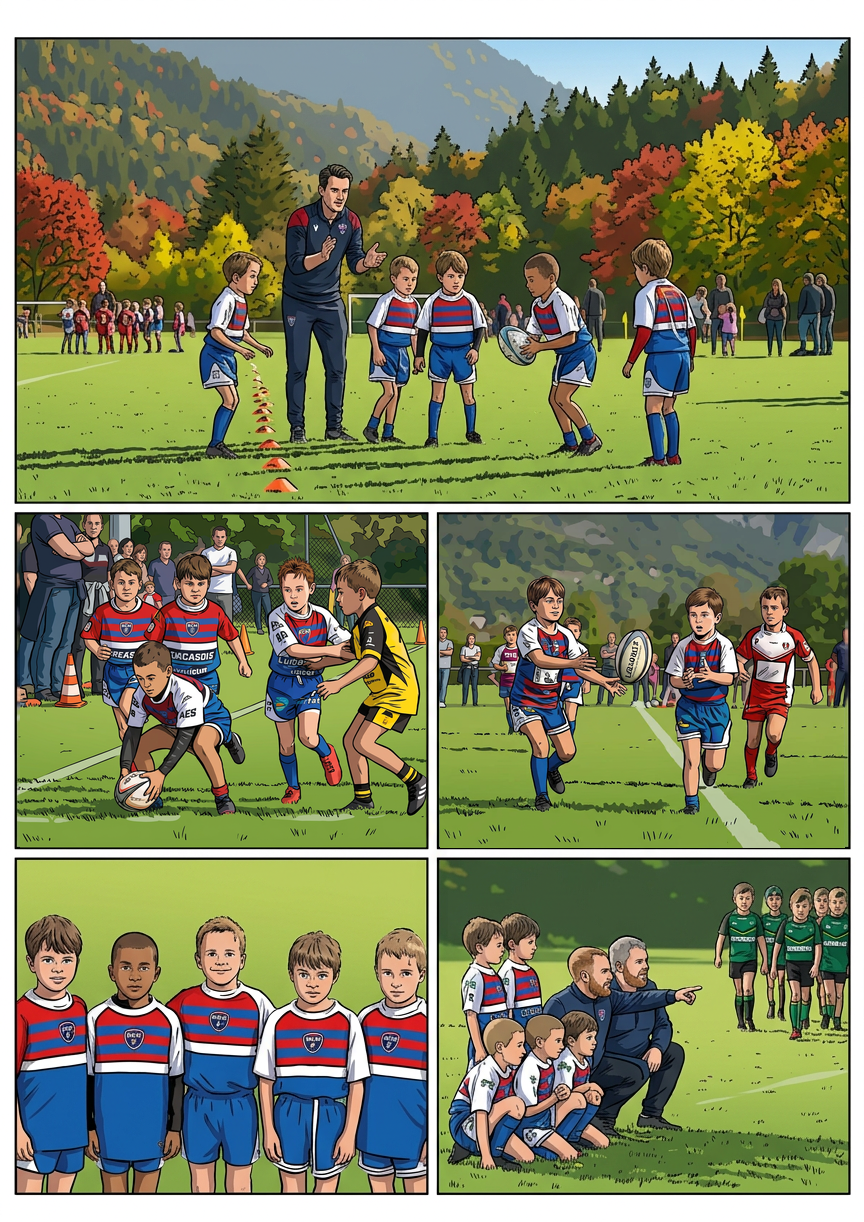
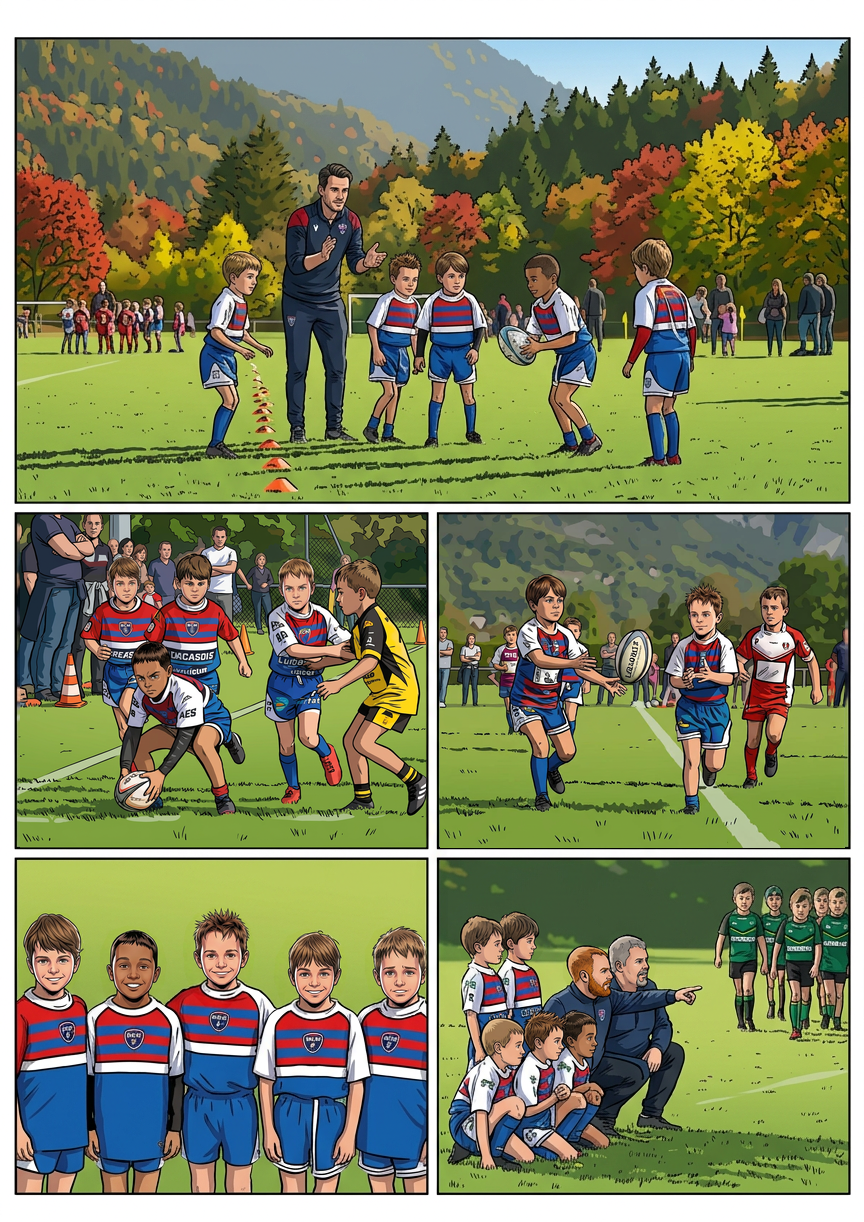
Revoir les cinq vignettes de la planche 6 sur les personnages de couverture

diff --git a/Planches-dessin/validation/REVUE-COUVERTURE.md b/Planches-dessin/validation/REVUE-COUVERTURE.md
@@ -21,12 +21,12 @@ Les huit recadrages exacts sont dans `revue-couverture/<Prénom>-couverture.png`
 |---|---:|
 | Planches vues en ensemble | 30 |
 | Vignettes réellement inventoriées | 153 |
-| Premières reprises intégrées, encore à relire | 28 |
+| Premières reprises intégrées, encore à relire | 33 |
 | Corrections seulement partielles, à poursuivre | 1 |
-| Autres vignettes restant à contrôler individuellement | 124 |
+| Autres vignettes restant à contrôler individuellement | 119 |
 | Validations définitives de style et ressemblance | **0** |
 
-Les 29 vignettes ayant reçu une intervention ne sont pas 29 vignettes définitivement conformes. Le reste de la revue demandée n’est pas terminé. Le manifeste `REVUE-COUVERTURE.json` conserve une entrée et un état explicite pour chacune des 153 vignettes.
+Les 34 vignettes ayant reçu une intervention ne sont pas 34 vignettes définitivement conformes. Le reste de la revue demandée n’est pas terminé. Le manifeste `REVUE-COUVERTURE.json` conserve une entrée et un état explicite pour chacune des 153 vignettes.
 
 ## Première livraison : 26/3 et 26/6
 
@@ -105,6 +105,18 @@ Chaque case a été comparée à son scénario, à sa source réaliste et aux re
 
 Preuves : `revue-couverture/lot-f/05-AVANT-APRES.jpg`, `AIMANTS-05.jpg` et cinq masques. Le contrôle indépendant des composantes colorées/sombres dans les zones de tableaux retrouve 20 disques complets dans chaque résultat (éléments de pièce/cadre touchant les limites de zone exclus). Il ne certifie ni les ressemblances ni le style. Montage relu à l’échelle des portraits et de la page ; tenues, raccords et encrage des corps/décors restent soumis à la relecture globale.
 
+## Septième livraison : les cinq vignettes de la planche 6
+
+Scénario, cinq recadrages réalistes, couverture et sorties intégrées examinés. Cinq premières reprises, pas de validation définitive de la page.
+
+- **06/1 :** Flavien et les quatre visages visibles repris ; pics châtains de Léon rétablis. Distribution gauche à droite : Ayden, Léon, Lyssandro, Nolann porteur du ballon et Milo de dos (chevelure arrière conservée). Carnation des membres visibles de Nolann rapprochée de son nouveau visage mat par sélection locale, sans éclaircir tout le dessin. Cinq garçons, gestes, ballon, plots, public et paysage automnal hors masques conservés.
+- **06/2 :** Nolann aplatissant, Ayden au touché à deux mains et Lyssandro repris. Le joueur touchant l’adversaire jaune/noir avait à tort les pics de Léon : Ayden retrouve la coupe courte vers l’avant. La frange pleine de Milo était meilleure dans l’original que dans le candidat : conservée, visage seul repris dessous. Ballon, gestes, quatre joueurs RCM visibles et adversaire jaune/noir préservés hors masques.
+- **06/3 :** Milo passeur et Léon receveur repris sur leurs modèles : frange châtaine pleine et pics distinctifs. Corps, mains, ballon, terrain et adversaire rouge/blanc hors masques inchangés.
+- **06/4 :** cinq têtes reprises, de gauche à droite **Lyssandro, Nolann, Léon, Milo, Ayden**. Courte frange de Nolann rétablie, pics de Léon, cheveux d’Ayden ramenés au châtain clair. Mains et jambes visibles de Nolann raccordées au visage mat ; base noire des manches et vêtements conservés. Ayden garde une expression réservée plutôt que le sourire de couverture.
+- **06/5 :** les cinq enfants étaient tous clairs dans la source réaliste comme dans le dessin, rendant Nolann non identifiable. Répartition rétablie : **Lyssandro/Milo debout, Ayden/Léon/Nolann accroupis**. Têtes de Kilian roux à barbe rousse et Julien gris à bouc/moustache reprises. Bras/mains et jambe découverte de Nolann accordés au teint du visage. Un agrandissement des membres a permis d’éviter de recolorer le pied clair du voisin, qui ne lui appartient pas. Pointage de Julien, corps, positions et cinq adversaires vert/noir (dernier partiellement en bord de cadre) conservés hors masques.
+
+Preuves : `revue-couverture/lot-g/06-AVANT-APRES.jpg` et cinq masques. Les sources réalistes sont un support de pose/composition, pas une autorité pour conserver une substitution ou une absence de ressemblance. Tenues, raccords de carnation et traitement des corps/décors restent à relire avec la série entière ; le maintien des pixels ne certifie pas leur conformité graphique.
+
 ## Contrôles techniques et audits historiques
 
 `outils/retouche/verifier_revue_couverture.py` compare les 31 PNG au début de la revue : couverture inchangée, dimensions, empreintes, absence de modification des fichiers non concernés et invariance des pixels hors masques. Il contrôle également la cohérence des états et du bilan. **Il ne mesure pas la ressemblance ou la qualité du dessin.**
@@ -113,7 +125,7 @@ Les vérificateurs des audits 13–22, comme ceux de 23–30, s’appliquent dé
 
 ## Suite obligatoire
 
-Contrôler individuellement les **124 autres vignettes**, terminer **14/2**, puis relire les premières reprises, notamment les six cases de la planche 4 et les réserves de scénario. Vérifier systématiquement chaque occurrence de Nolann et des sept autres personnages, ainsi que décors et encrage : la revue ne peut pas se limiter aux couleurs de peau/cheveux.
+Contrôler individuellement les **119 autres vignettes**, terminer **14/2**, puis relire les premières reprises, notamment les six cases de la planche 4 et les réserves de scénario. Vérifier systématiquement chaque occurrence de Nolann et des sept autres personnages, ainsi que décors et encrage : la revue ne peut pas se limiter aux couleurs de peau/cheveux.
 
 Procédure : identification au scénario → comparaison aux personnages de couverture → comparaison à la planche réaliste → correction locale → relecture en contexte de page. Les raccords cou/cheveux/mains et les tenues restent à contrôler. Aucun candidat simplement généré n’est automatiquement validé.
 

diff --git a/Planches-dessin/SUIVI-STYLE.md b/Planches-dessin/SUIVI-STYLE.md
@@ -2,7 +2,7 @@
 
 **La couverture `00-couverture-marvel.png` est désormais la seule référence de style et d’identité.** La décision utilisateur remplace la priorité V2 décrite dans l’historique ci-dessous. La couverture reste inchangée.
 
-Suivi actuel : [`validation/REVUE-COUVERTURE.md`](validation/REVUE-COUVERTURE.md) et son manifeste JSON : 153 vignettes inventoriées, 28 premières reprises, 1 correction partielle, 124 autres contrôles individuels à faire, aucune validation définitive. Les anciennes approbations ne valent pas conformité au nouveau référentiel.
+Suivi actuel : [`validation/REVUE-COUVERTURE.md`](validation/REVUE-COUVERTURE.md) et son manifeste JSON : 153 vignettes inventoriées, 33 premières reprises, 1 correction partielle, 119 autres contrôles individuels à faire, aucune validation définitive. Les anciennes approbations ne valent pas conformité au nouveau référentiel.
 
 ---
 
